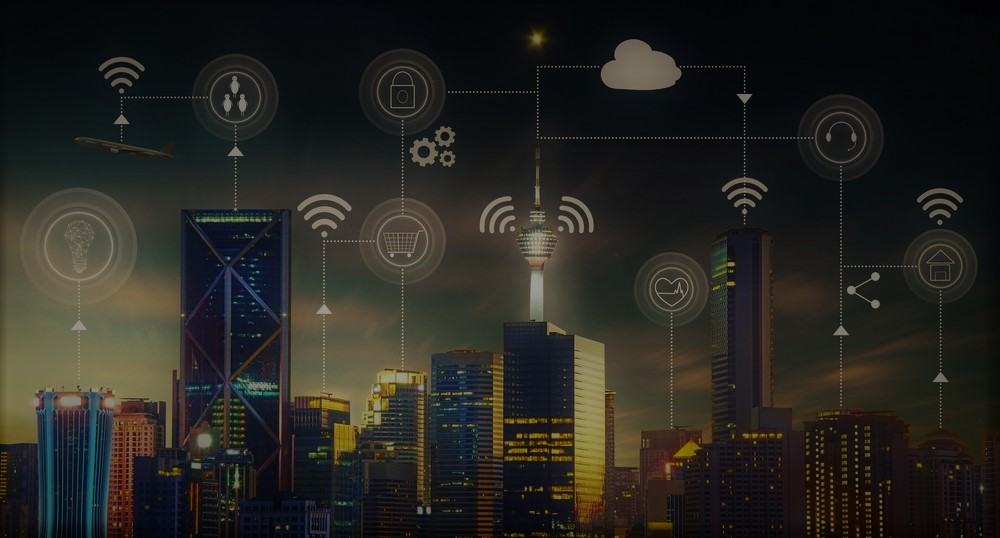
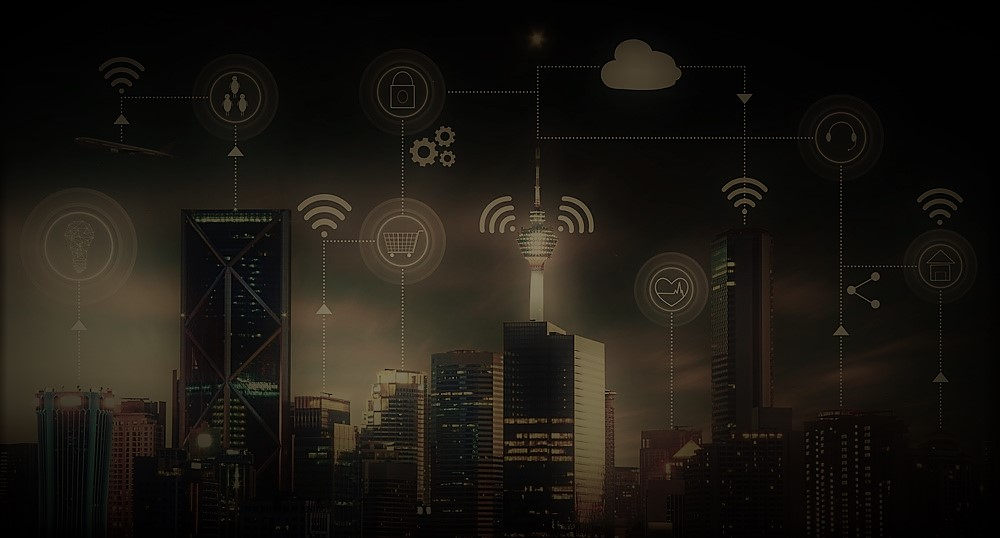
make a div of contact

diff --git a/index.html b/index.html
@@ -11,7 +11,7 @@
     <meta http-equiv="X-UA-Compatible" content="ie=edge">
     <title>Smart city Patna</title>
 </head>
-<body > 
+<body  style="background-image:url(images/smartcity.jpeg);"> 
     <div id="loading">
         <img id="loading-image" src="images/laod.png" alt="Loading..." />
     </div>
@@ -75,7 +75,7 @@
         </nav>
     </header>
     <main  style="background-image: linear-gradient(-30deg, rgb(79, 172, 206) 0%, #f4f4f4 50%, #F0F8FF 100%)"> 
-        <div class="container mt-3">
+        <div class="container ">
             <div class="row justify-content-md-center">
                 <div class="col-md-9 mt-4">
                     <h3 style="color:#28aae1;font-family: ProximaNova;font-weight: bold;font-size: 20px;">SMART CITY <span style="color:#21b473;">INITIATIVE</span> <span style="font-size:15px;color: #767676;font-stretch: normal;line-height: 1.24;letter-spacing: normal;font-weight: 500">Urban Development the core elements of Patna Smart Cities</span></h3><br>
@@ -140,11 +140,11 @@
         </div>
     </main>
     <section>
-            <div class="shadow-lg p-3 pt-4 mb-0 bg-white rounded">
+            <div class="shadow-lg p-3 pt-4 mb-0 bg-white rounded" >
                 <h1 class="text-center"><span style="color: #28aae1;">THE JOURNEY</span> <span style="color: #21b473;">HAS </span> <span 
                     style="color: gray;" >BEGUN </span></h1>
-                <p class="text-center " style="color:#FA8072; font-family: ProximaNova; font-size: 16px;">(from “elsewhere Patna’’ to “nowhere else Patna’’)</p>
-                <p class="container journey" >Positioned on the great Gangetic artery, Patna not only has fertile land but also enjoys the competitive advantage of being the gateway to east and north east India. Add to the USP, this city enjoys 2500 years of rich heritage. But that is it. The capital city of Bihar, Patna offers glimpse of “Real India’’ and is still struggling hard to carve niche in the “New India”.<br><br>
+                <p class="text-center  " style="color:#FA8072; font-family: ProximaNova; font-size: 16px;">(from “elsewhere Patna’’ to “nowhere else Patna’’)</p>
+                <p class="container journey animated zoomIn" >Positioned on the great Gangetic artery, Patna not only has fertile land but also enjoys the competitive advantage of being the gateway to east and north east India. Add to the USP, this city enjoys 2500 years of rich heritage. But that is it. The capital city of Bihar, Patna offers glimpse of “Real India’’ and is still struggling hard to carve niche in the “New India”.<br><br>
 
                 From pollution to Traffic congestion and garbage hills on roadside to people relieving themselves in public, paradoxes of development can be easily spotted in Patna. Add to this, the lack of opportunities which is forcing people to drain to better places on earth.<br><br>
                         
@@ -153,13 +153,34 @@
                         The journey has begun and we need you all to be our travel buddy. Will you!
                 </p>
             </div>
-    </section>
-    <footer  style="background-image: linear-gradient(-30deg, rgb(79, 172, 206) 0%, #f4f4f4 50%, #F0F8FF 100%)" >
-        <div class="shadow-lg p-3 mb-2  rounded">
-            <div class="container animated bounce">
-                <img src="images/footer.jpg" alt="" class="img-fluid ">
+            <div  style="background-image: linear-gradient(-30deg, rgb(79, 172, 206) 0%, #f4f4f4 50%, #F0F8FF 100%)" >
+                <div class="shadow-lg p-3   rounded">
+                    <div class="container animated bounce">
+                        <img src="images/footer.jpg" alt="" class="img-fluid ">
+                    </div>
+                </div>        
             </div>
-        </div>        
+            <div class=" p-3 pt-4 mb-0 bg-white " >
+                <div class="row">
+                    <div class="col-12">
+                        <h1 class="text-center">Contact Us</h1><hr>
+                    </div>
+                </div>
+                <div class="row mt-3">
+                    <div class="col-md-6 mt-2 col-sm-12 col-12" style="align-self: center;" >
+                        <img src="images/laptop.png" width="70%"" height="90%" >
+                    </div>
+                    <div class=" col-md-6 mt-2 col-sm-12 col-12 ">
+                        <h1 style="color: #1cbbb4;">GET IN TOUCH </h1><br>
+                        <P><span><i class="fa fa-map-marker" style="color: #1cbbb4;"></i></span>&nbsp; Maurya Lok Complex <br> &nbsp;&nbsp;&nbsp;&nbsp; Budha Marg, Patna- 800 001</P>
+                        <p><span><i class="fa fa-phone" style="color: #1cbbb4;"></i></span>&nbsp; 0612 - 2200634</p>
+                        <p><span><i class="fa fa-envelope" style="color: #1cbbb4;"></i></span>&nbsp; patnasmartcity.pscl@gmail.com</p>
+                    </div>
+                </div>
+            </div>
+    </section>
+    <footer>
+        <p class="text-center pt-3" style="color: white;">@Smart City Patna. All Rights Reserved </p>
     </footer>
     <script
     src="https://code.jquery.com/jquery-3.4.0.js"
